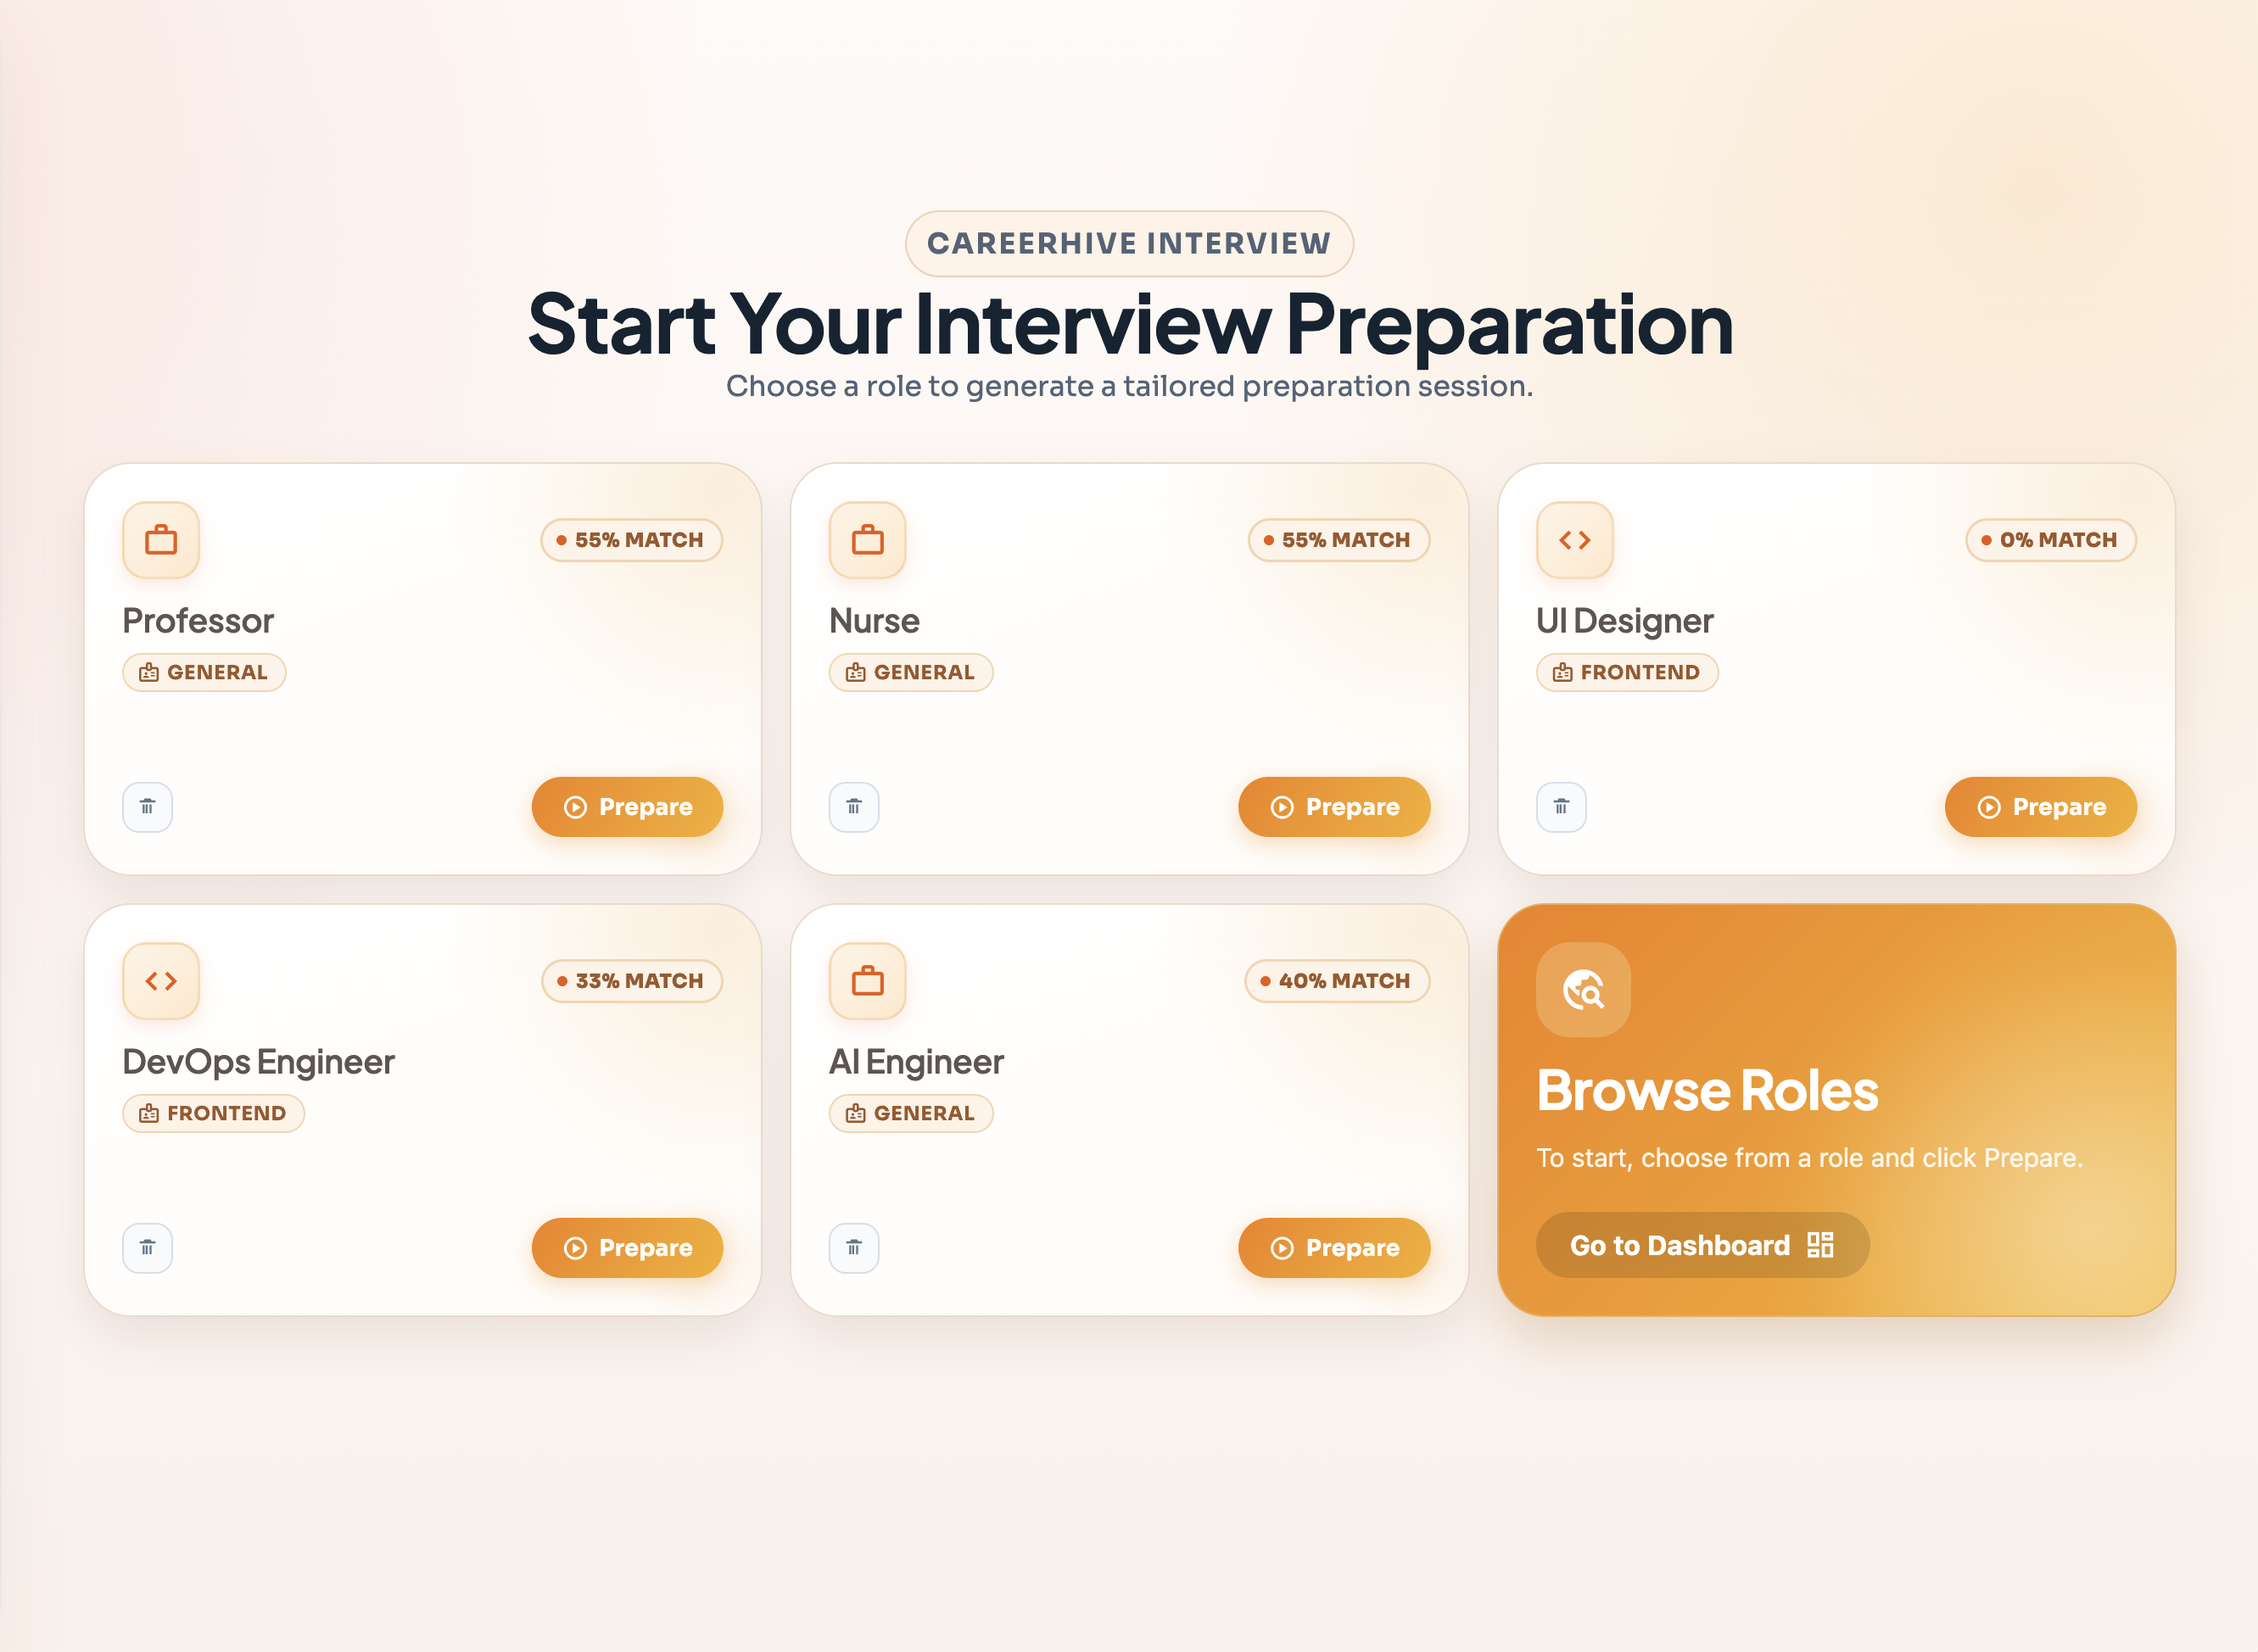
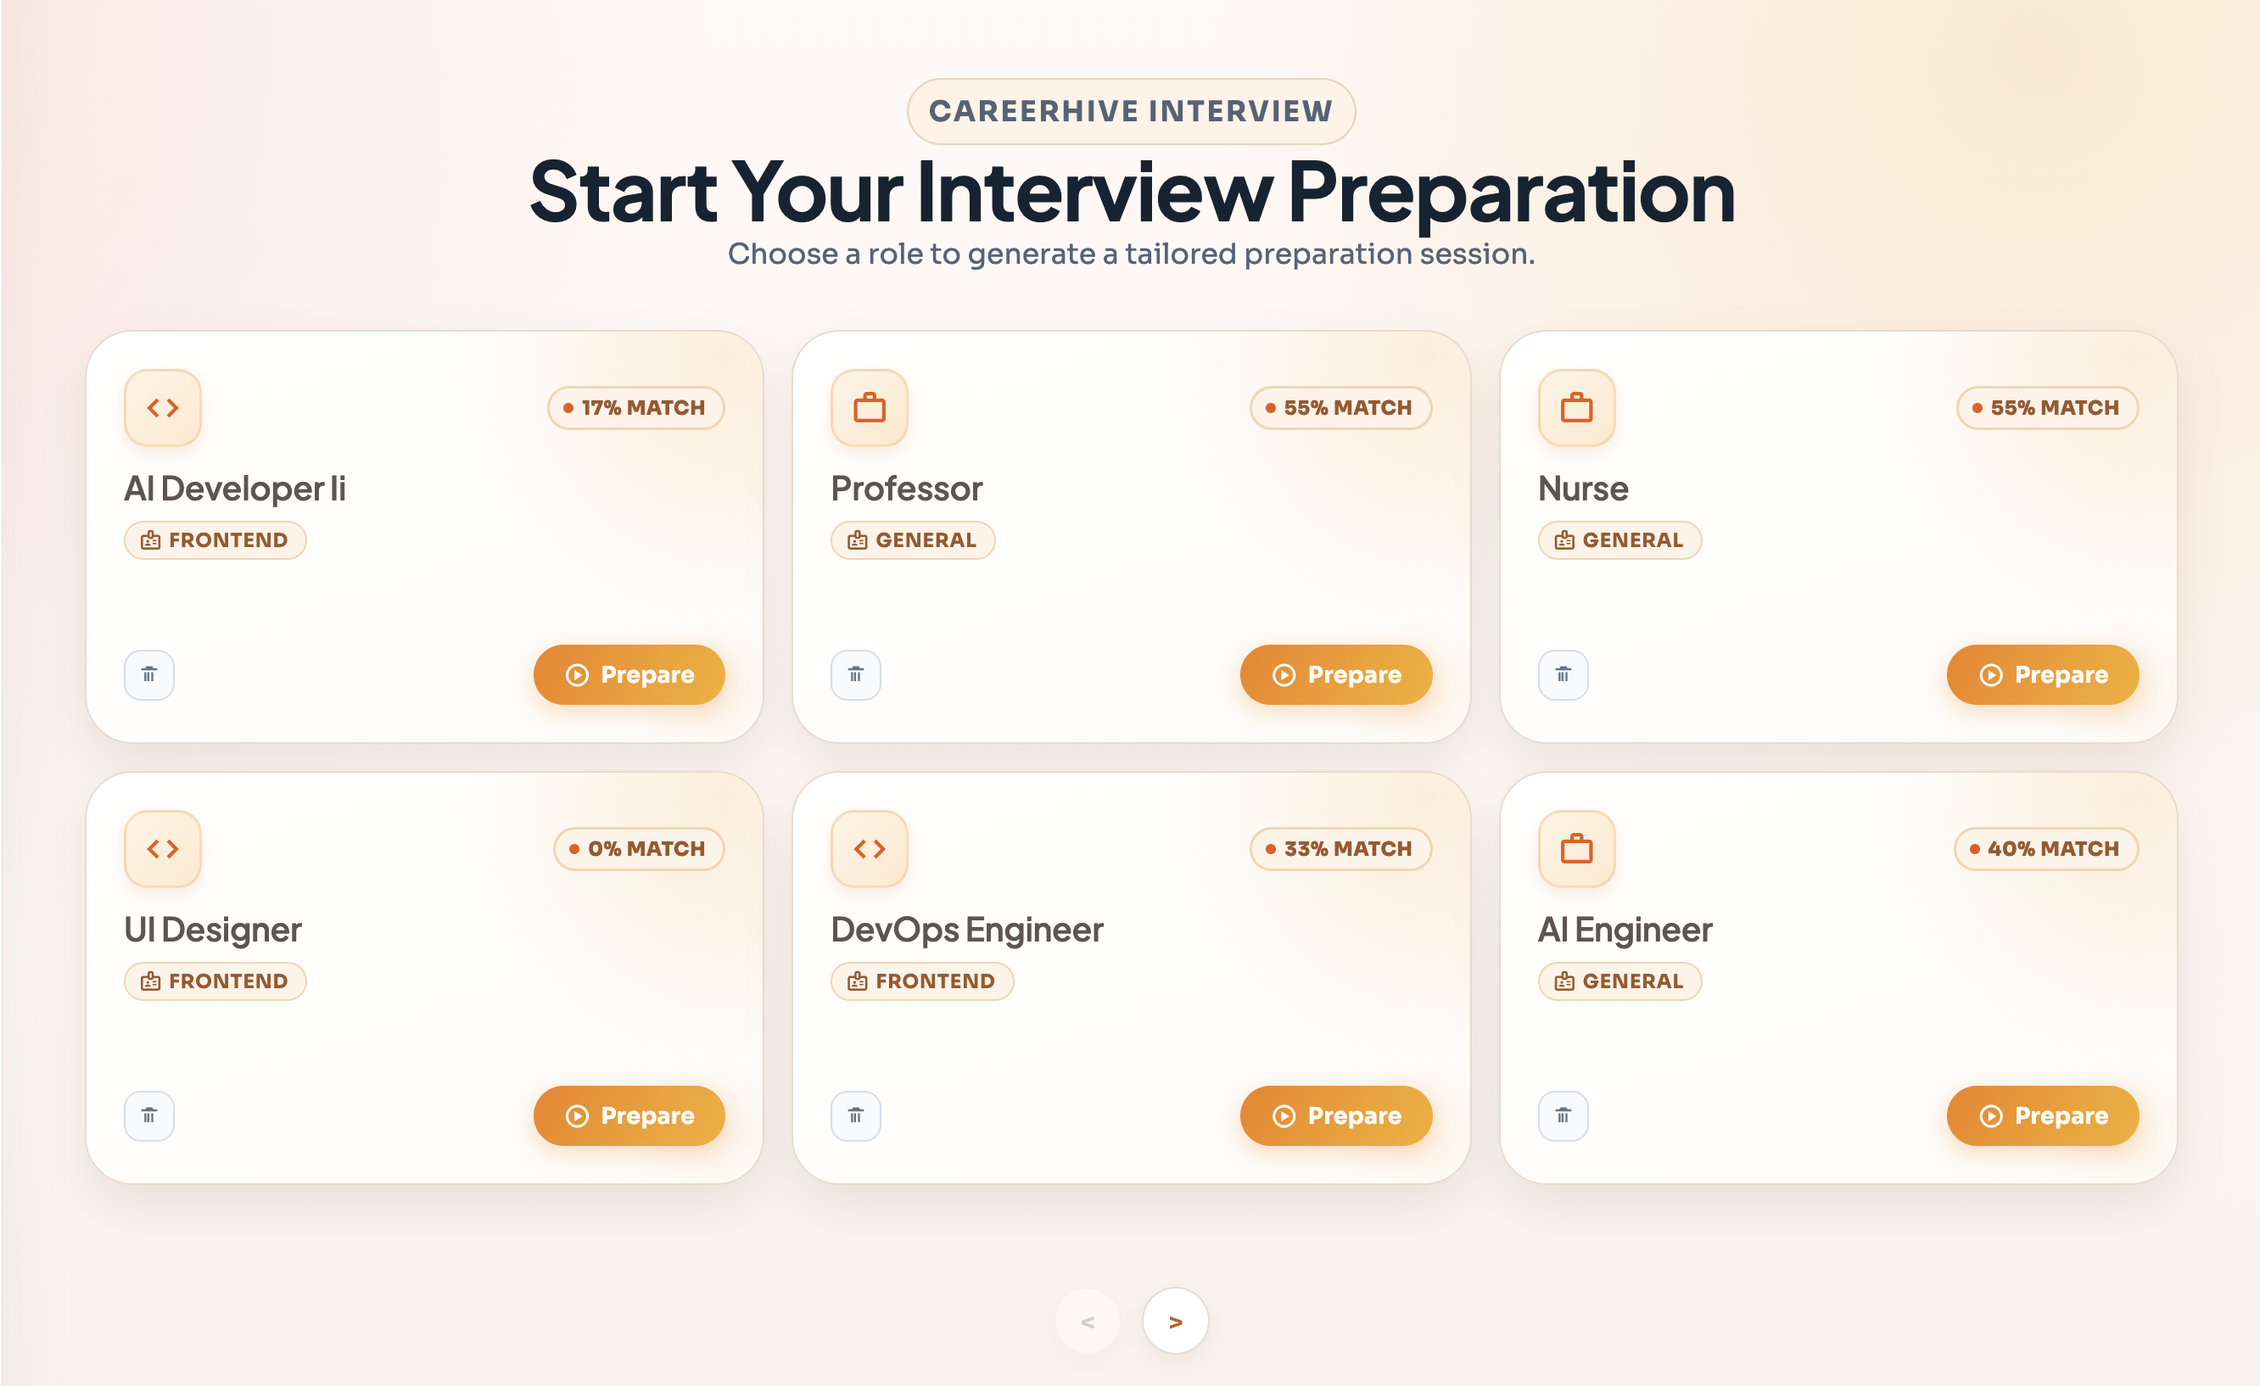
feat: update images in README for improved visuals; replace filled landing image and add new screenshots

diff --git a/README.md b/README.md
@@ -22,13 +22,14 @@
 [Youtube](youtube.com)
 ## Live Walkthrough
 ### Landing
-![Filled Landing](docs/images/filled-landing.png)
+![alt text](docs/images/landing.png)
 ### Pipeline
 The multi-agent pipeline shows how each agent works with each other to create a personalized report.
 ![Pipeline](docs/images/agentpipeline.png)
 ### Results
 ![Results 1](docs/images/results-p1.png) ![Results 2](docs/images/results-p2.png)
 ### Interview Preparation
+![INTERVIEW AND DASHBOARD](docs/images/screens.png)
 ![Interview1](docs/images/interviewprep1.png)![Interview2](docs/images/interviewprep2.png)
 ### Dashboard
 ![Dashboard](docs/images/dashboard.png) ![Dashboard](docs/images/dashboard2.png) ![Dashboard](docs/images/dashboardcontent.png)
